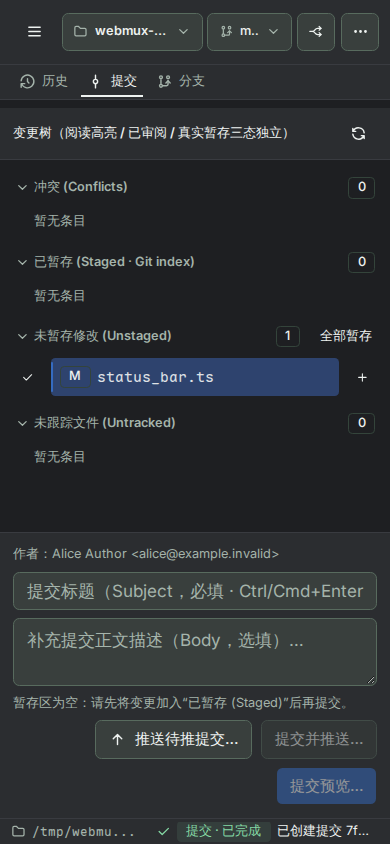
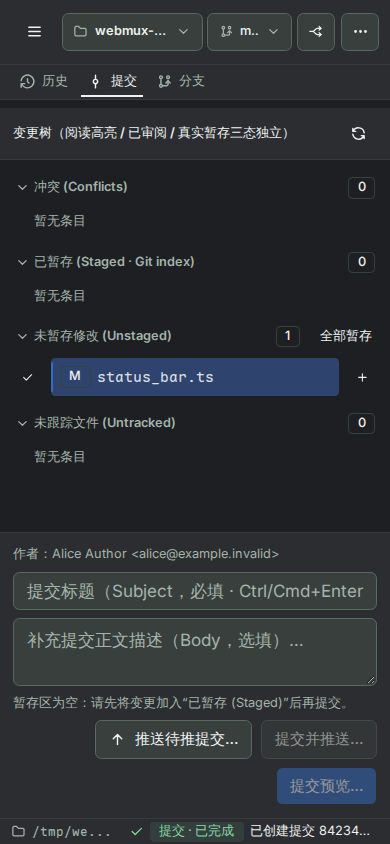
fix(web): prevent status bar and commit dialog overflow in narrow large-text layouts

Changed region(s): [[0.4, 0.955, 0.9538, 1.0], [0.2154, 0.9858, 0.3077, 1.0], [0.3385, 0.9858, 0.3692, 1.0]]

diff --git a/web/src/components/workspace/GitWorkbenchStatusBar.svelte b/web/src/components/workspace/GitWorkbenchStatusBar.svelte
@@ -113,7 +113,7 @@
   class="flex h-[26px] min-w-0 shrink-0 items-center justify-between gap-2 overflow-hidden border-t border-git-border bg-git-panel px-2.5 text-xs text-muted-foreground"
   data-testid="git-workbench-status-bar"
 >
-  <div class="flex min-w-0 shrink items-center gap-1.5 max-sm:max-w-[35%]">
+  <div class="flex min-w-0 flex-1 items-center gap-1.5 overflow-hidden">
     <IconFolder
       class="size-3.5 shrink-0 text-muted-foreground"
       aria-hidden="true"
@@ -127,7 +127,7 @@
   </div>
 
   <div
-    class="flex min-w-0 flex-1 items-center justify-end gap-2 overflow-hidden"
+    class="flex min-w-0 max-w-[70%] shrink items-center gap-2 overflow-hidden"
   >
     {#if fetchedLabel}
       <span
@@ -146,7 +146,7 @@
           <ListButton
             {...props}
             variant="git-status-trigger"
-            class="min-w-0 max-w-full overflow-hidden"
+            class="min-w-0 max-w-full shrink overflow-hidden"
             aria-label="展开 Git 操作记录与状态详情"
             title={barSummary}
             data-testid="git-operations-popover-trigger"
